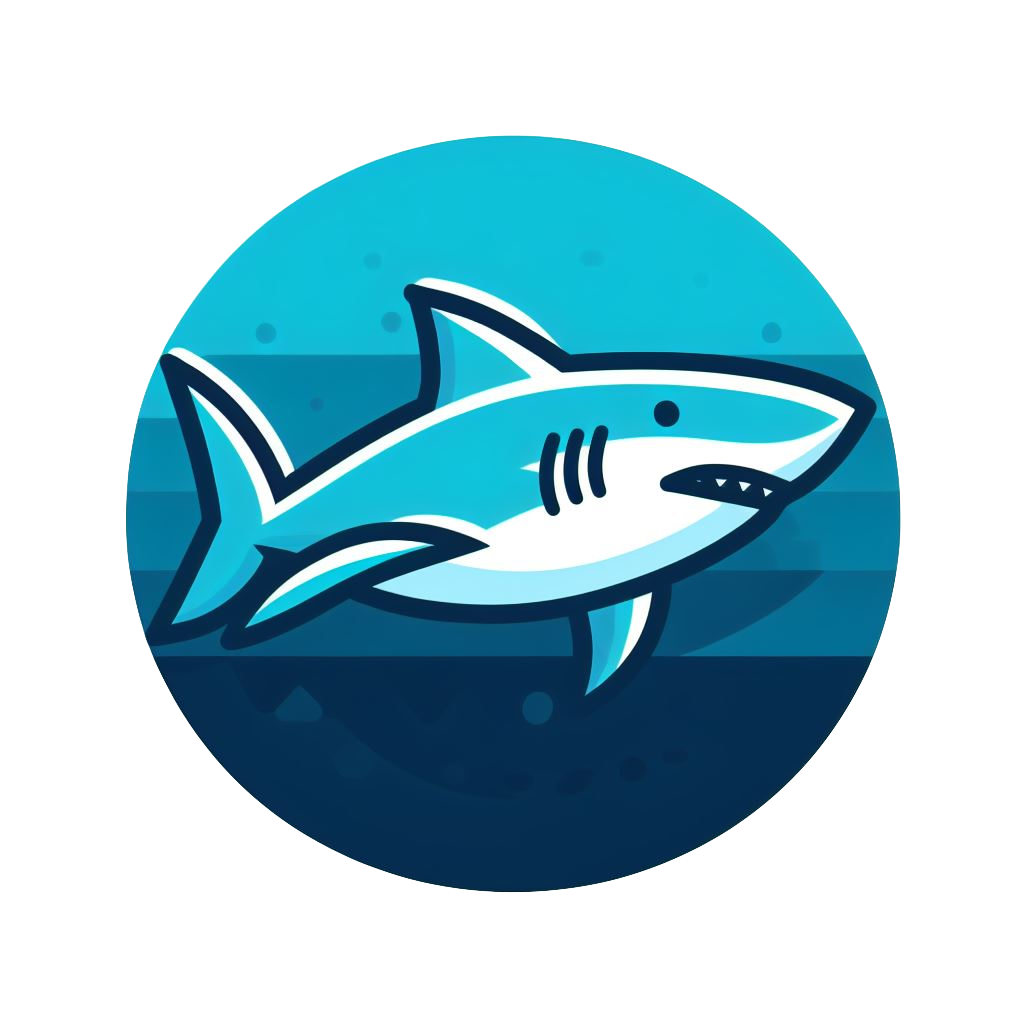
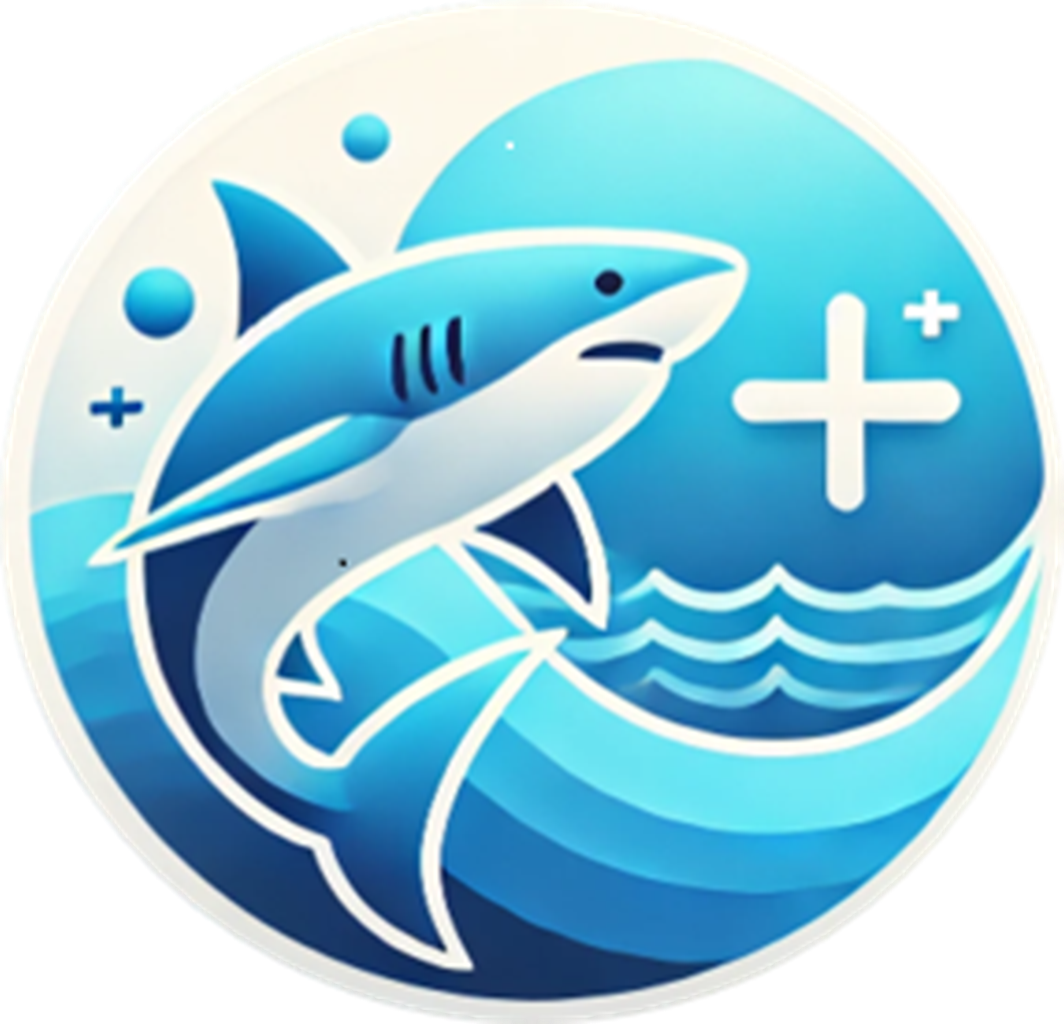
項目の修正

diff --git a/frontend/src/pages/form.tsx b/frontend/src/pages/form.tsx
@@ -152,7 +152,7 @@ function Form() {
 
       <div className="w-4/5 my-2">
         <label className="block mb-2 text-sm font-medium text-gray-900">
-          インシデントレベル
+          インシデントレベル (1~10)
           <input
             className="w-[100%] rounded-lg"
             type="text"

diff --git a/frontend/src/components/Navbar.tsx b/frontend/src/components/Navbar.tsx
@@ -5,7 +5,7 @@ import {
   sidebarOpenAtom,
 } from "../atoms/atoms";
 
-const title = "G-SHARK";
+const title = "G-SHARK plus";
 
 function Navbar() {
   const [showDarkerOverlay, setShowDarkerOverlay] = useAtom(
